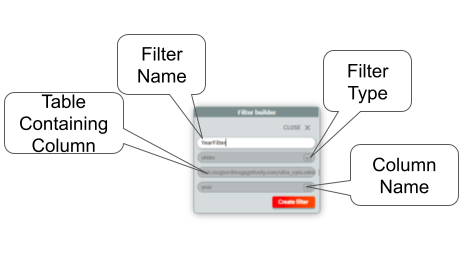
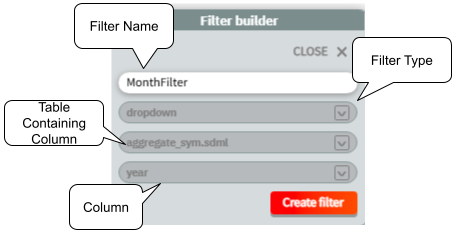
fixed image

diff --git a/tutorials/filter-table/README.md b/tutorials/filter-table/README.md
@@ -31,7 +31,7 @@ Click on "Filters" to bring up the filters tab, then click on "Add Filter".  The
 
 ![Filter Dialog](images/filter-dialog-new.png)
 
-When you click Create, the widget appears in the top-left and the filter name appears in the filter list.  A gear button next to the filter lets you edit it.
+When you click "Create", the widget appears in the top-left and the filter name appears in the filter list.  A gear button next to the filter lets you edit it.
 
 ![Filter UI](images/filter-ui.png)
 
